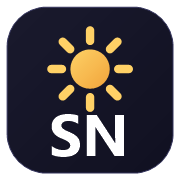
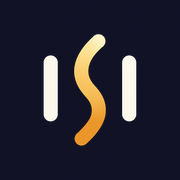
图标焕新：深蓝底 + 两条米白竖柱 + 一道金 S
public/icon.svg 换成矢量版（由 AI 生成稿按实测几何重绘），补齐 icon-192/512、apple-touch-icon、maskable-512；manifest 的 maskable 改指 /maskable-512.png 并新增 icon.svg 条目。

版本日志同步到 1.31.7（真源 src/config/changelog.ts，已写入 D1）；.gitignore 忽略本地 .icon-work/。

diff --git a/src/config/changelog.ts b/src/config/changelog.ts
@@ -14,10 +14,82 @@ import type { ChangelogEntry } from '../types/changelog';
 export type { ChangelogEntry };
 
 /** 当前版本号（与 CHANGELOG 最新一条保持一致） */
-export const APP_VERSION = '1.31.0';
+export const APP_VERSION = '1.31.7';
 
 /** 版本历史（倒序：最新在前） */
 export const CHANGELOG: ChangelogEntry[] = [
+  {
+    version: '1.31.7',
+    date: '2026-10-18 14:05:00',
+    title: '换上新图标：深蓝底上两条米白柱夹一道金「S」',
+    changes: [
+      'App 图标重做了：深蓝底、两条米白竖条是名字里的 N，中间那条金色曲线既是 S，也像一缕透进来的阳光 —— 和小世界、晴空小筑的调子对上',
+      '网页版页签图标换成矢量版：手机桌面、浏览器标签、iOS 添加到主屏现在是同一张脸，放到多大都清晰',
+      '安卓补上了自适应图标：圆形、方形、主题色图标都能正确裁切，不再被系统套白框；Web App 也补齐了 maskable 图标',
+    ],
+  },
+  {
+    version: '1.31.6',
+    date: '2026-10-18 14:20:00',
+    title: '卡片换上了高级材质：毛玻璃当出厂，还有苹果同款液体玻璃',
+    changes: [
+      '全站卡片多了一套「材质」：实心 / 毛玻璃 / 液体玻璃。出厂就是毛玻璃 —— 卡片底色变半透明，从底下滚过去的内容、背景图都会被高斯模糊糊开，卡片边角留一圈淡淡的边，看着有厚度',
+      '想要更足的质感可以选「液体玻璃」：模糊更重，再叠一道斜向高光，往苹果液体玻璃那个方向靠；底下那条底部导航栏也跟着一起糊',
+      '没设背景图也不会糊成一片白：玻璃模式下首页会自己铺一层主题色光晕当底，换主题颜色跟着变；设了全家福就自动改用照片当底',
+      '改在 设置 → 外观 → 卡片材质，选中立刻生效，只改这台手机。老手机或想省电的、以及网页版（浏览器上的模糊开销大）选「实心」就完全回到原来的样子',
+    ],
+  },
+  {
+    version: '1.31.5',
+    date: '2026-10-18 14:05:00',
+    title: '更新弹窗里的版本日志长到滑不动，现在能往下滑了',
+    changes: [
+      '修掉更新弹窗正文被截断的问题：这一版改的条目一多，弹窗里就只能看到前半截，后面的看不着也滑不动。现在正文框最多占半屏高，内容超了就在框里往下滑，下面的「以后再说 / 立即更新」按钮始终留在屏幕上',
+      '弹窗正文接着也理顺了一层：不管日志多长多短，都不再顶破弹窗',
+    ],
+  },
+  {
+    version: '1.31.4',
+    date: '2026-10-18 13:55:00',
+    title: '每一个二级页面按返回键都回上一级，家庭页顶部也不再被状态栏压住',
+    changes: [
+      '上一版只补了设置里的分区、自检和通知页；这次把「返回上一页」变成了整个 App 的规矩：底部导航切过去的每一格、从首页点进去的账本 / 计划 / 花园 / 通知，按系统返回都退回你来的那一页，真的退无可退才退出 App',
+      '花园里换菜单、家庭里换分区属于同一页换内容，不占返回历史 —— 在这些地方按返回会回到你进来的那一页，而不是在同页的几格之间来回绕',
+      '修掉家庭页顶部被手机状态栏压住的问题：这一页是唯一没有自己留状态栏空隙的页面，现在第一张卡（余额）整体往下让出状态栏的高度，日期与金额不再被系统图标盖住',
+    ],
+  },
+  {
+    version: '1.31.3',
+    date: '2026-10-18 13:45:00',
+    title: '二级页面按返回键不再退出 App：老老实实回上一级',
+    changes: [
+      '以前在设置里点进任意一项（外观、家庭、推送、家长、管理），或者点进通知页，按手机的系统返回键会直接把 App 退到桌面 —— 因为菜单之间是「替换」而不是「压栈」，返回栈里根本没有上一页可回',
+      '现在按返回键会退一级：从「外观设置」这类子页退回到设置首页，管理员那个「全站自检」也一样退回设置首页，通知页退回首页；只有真的在首页（或设置首页）上再按，才会退出 App',
+      '手机上现在是这样：设置 → 随便点进一项 → 按返回 → 回到设置首页 → 再按返回 → 退出',
+    ],
+  },
+  {
+    version: '1.31.2',
+    date: '2026-10-18 13:20:00',
+    title: '更新这件事更顺手了：每次打开都看一眼，弹窗直接摊开这一版的日志',
+    changes: [
+      '以前是「一天最多查一次」：一天里第一次打开之后，再看就没有更新提醒了。现在每次打开 App 都真的去云端看一眼（清单只有一个很小的文件），有新版就弹',
+      '弹窗里不再只写一句话，而是把这一版的完整更新日志摊开给你看 —— 跟「设置 → 关于 → 版本日志」是同一份内容，按版本号对齐；读不到云端时才退回清单里那行说明',
+      '「设置 → 关于」里多了一个「自动检测更新」开关，默认开着。不想让它每次启动都查就关掉：关了之后启动不再自动查、弹窗也不会自己冒出来，但右边那个「检查更新」照样能用；把开关重新打开会立刻查一次',
+      '「以后再说」的规矩没变：说过以后这个版本就不再自动打扰你，想装的时候随时手动检查',
+    ],
+  },
+  {
+    version: '1.31.1',
+    date: '2026-10-18 11:55:00',
+    title: 'App 从此能自己更新：有新版本会提醒，点一下装完',
+    changes: [
+      '以前装新版本得我手动把安装包发给你、你再点开一步步装；现在 App 启动时会静默看一眼云端清单（一天最多一次），有新版本就弹窗告诉你是哪个版本、改了啥、包多大，点「立即更新」就下载、校验、直接调起系统安装 —— 装完聊天记录、积分、花园、照片都还在',
+      '不想马上装就点「以后再说」：这个版本不会再自动打扰你；想装的时候随时去「设置 → 关于 → 检查更新」，手动检查不看 24 小时的限制',
+      '下载完会跟云端清单里的 sha256 对一遍，对不上直接丢掉重下 —— 宁可不更新，也不装一个来路不明的包；装的时候系统会问一次「允许安装未知应用」，App 会把你送到设置页，允许之后回来再点一次就行（包还在，不会重下 22MB）',
+      '网页版不需要这套（刷新就是最新版），所以设置页里不会出现「检查更新」那一行',
+    ],
+  },
   {
     version: '1.31.0',
     date: '2026-10-17 22:40:00',
